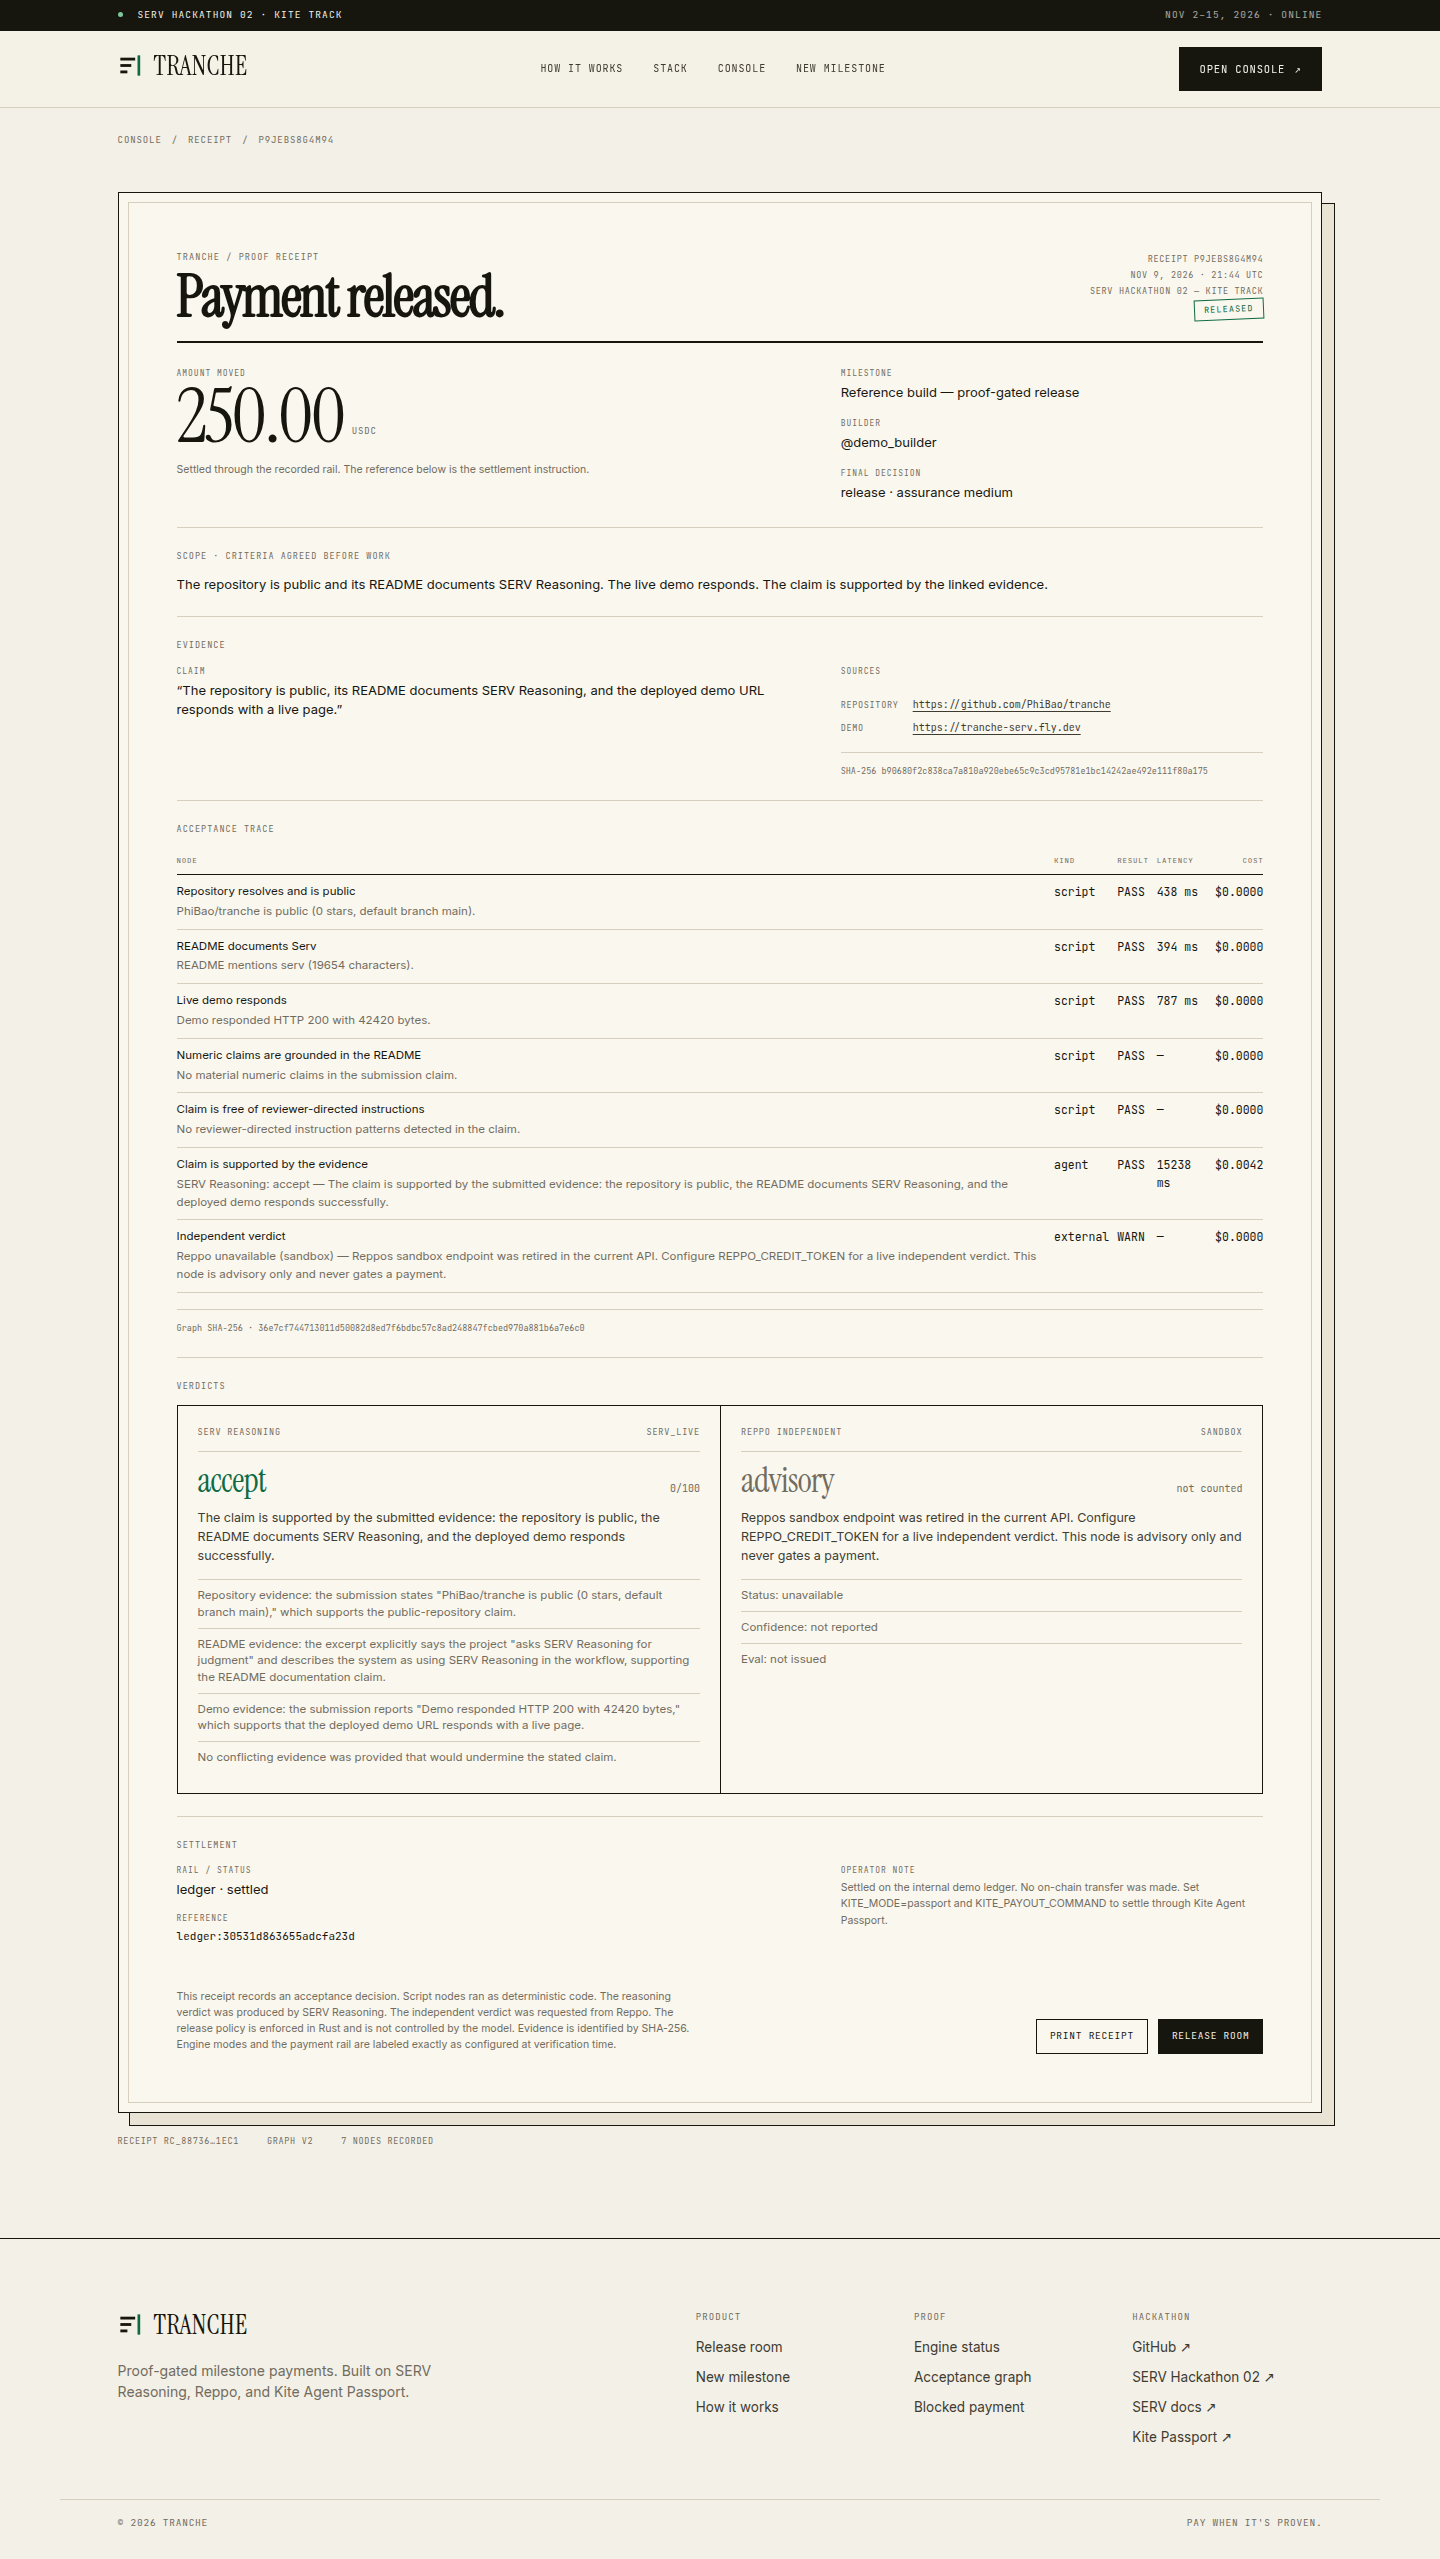
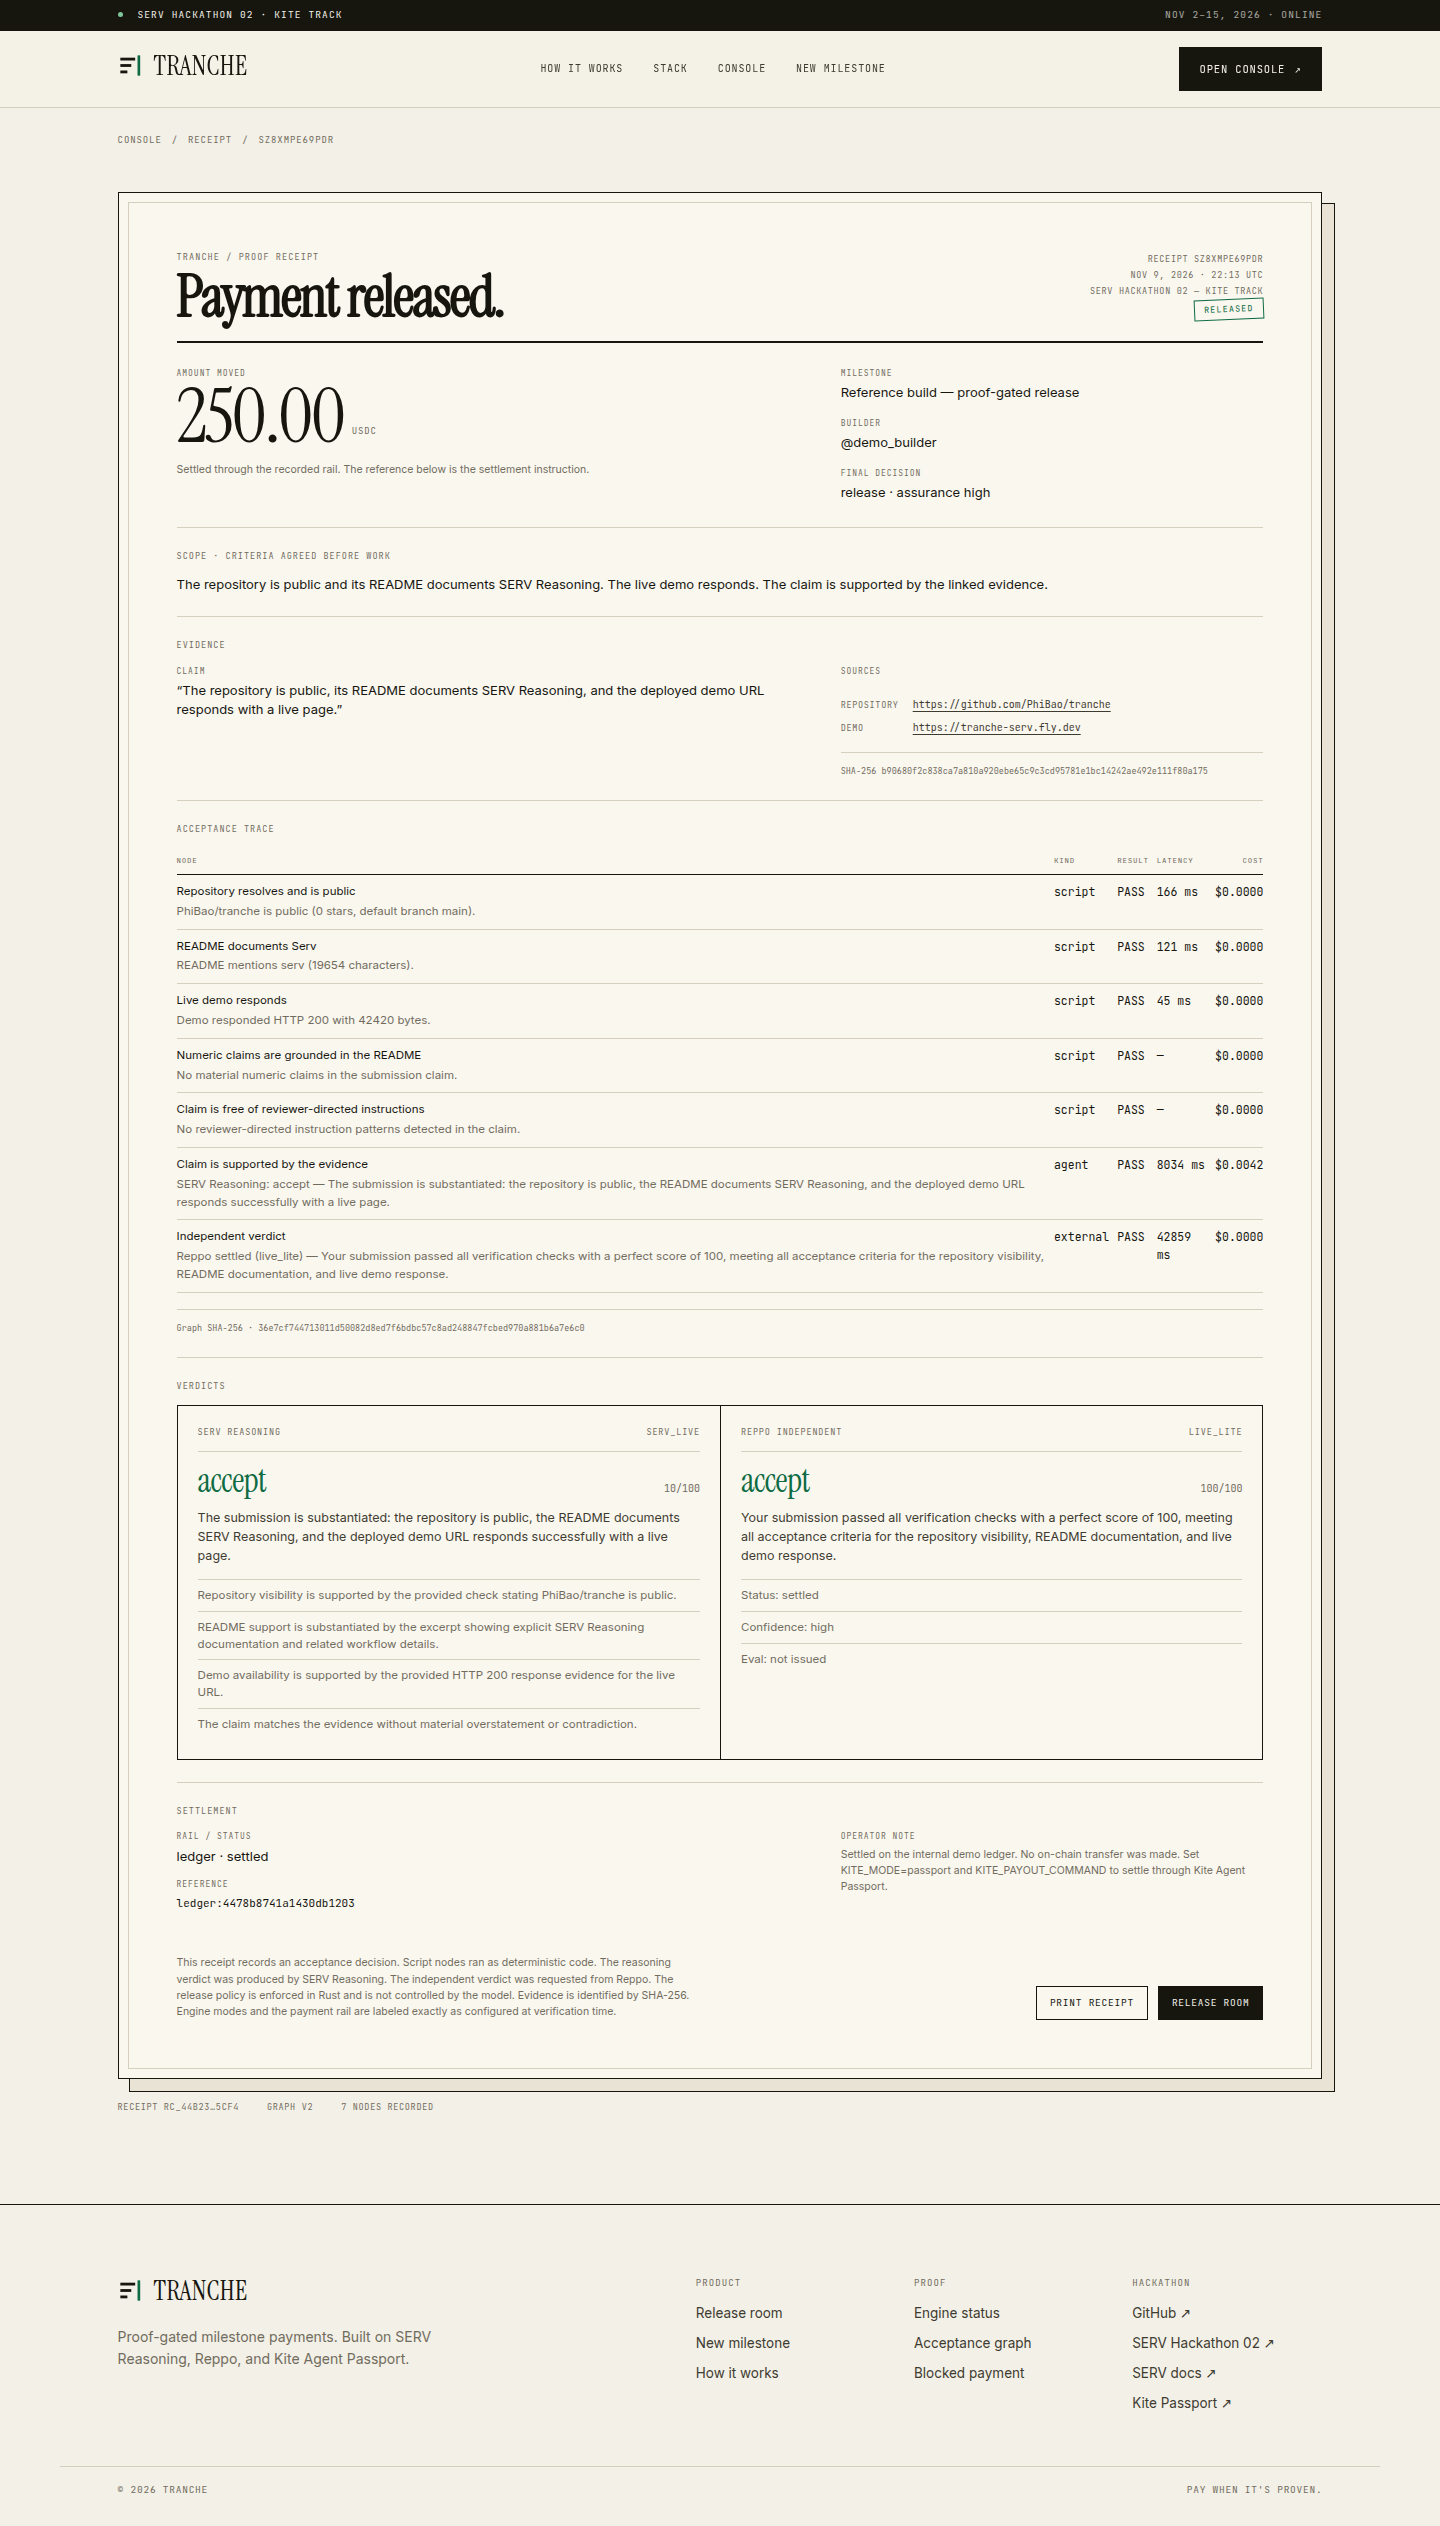
Live Reppo proofs, stricter assurance, Kite pending-approval docs

diff --git a/README.md b/README.md
@@ -12,8 +12,8 @@ Built for **SERV Hackathon 02** — Kite track. Deadline: November 15, 2026.
 - **Live demo:** <https://tranche-serv.fly.dev>
 - **Release room:** <https://tranche-serv.fly.dev/console/>
 - **Blocked-payment demo:** <https://tranche-serv.fly.dev/milestone/?id=ms_blocked>
-- **Live blocked receipt:** <https://tranche-serv.fly.dev/receipt/?slug=dfqn6yhkg2pe>
-- **Live released receipt:** <https://tranche-serv.fly.dev/receipt/?slug=72q7s2w6vwmr>
+- **Live blocked receipt:** <https://tranche-serv.fly.dev/receipt/?slug=afbq4eejfzhb>
+- **Live released receipt:** <https://tranche-serv.fly.dev/receipt/?slug=sz8xmpe69pdr>
 - **Repository:** this repository (public at submission time)
 
 The public demo scales to zero when idle. The first request can take 5–10 seconds
@@ -125,8 +125,8 @@ Open <https://tranche-serv.fly.dev/console/>. Four seeded milestones are availab
    failed safety check.
 
 Every page labels the engine mode and the payment rail. Nothing simulated is
-presented as live. The deployed demo runs SERV Reasoning **live**; Reppo is in
-**sandbox** mode (placeholder verdict, never gates); settlement is the labeled
+presented as live. The deployed demo runs SERV Reasoning **live** and Reppo
+**live** (x402 credits, independent verdict); settlement is the labeled
 **demo ledger**. The Kite Passport adapter is implemented but requires the
 operator's passkey and a funded wallet to settle for real.
 
@@ -143,7 +143,7 @@ operator's passkey and a funded wallet to settle for real.
 | Release policy | **Real** | Enforced in Rust; the model has no settlement authority |
 | Public receipt | **Real** | Generated from the persisted trace; excluded from any mocked path |
 | SERV Reasoning | **Live** when `SERV_API_KEY` is set | Calls `inference-api.openserv.ai` with PromptGuard + Shadow Agent. Without a key, a deterministic **fixture** evaluator runs and is labeled `FIXTURE`; fixture verdicts cannot release funds (`ALLOW_FIXTURE_RELEASE=false`). |
-| Reppo Evaluation API | **Live lite** when `REPPO_CREDIT_TOKEN` is set | Calls the x402 lite endpoint and settles inline. Without a token, `sandbox` returns a labeled placeholder. Without either, the node is `unconfigured`. |
+| Reppo Evaluation API | **Live lite** when `REPPO_CREDIT_TOKEN` is set | Submits the claim + evidence to `/api/v1/x402/evals`, polls for a settled verdict, and records score/decision/confidence/critique. Without a token, `sandbox` is a labeled advisory (no network call); without either, `unconfigured`. |
 | Settlement | **Kite Passport** when `KITE_MODE=passport` and `KITE_PAYOUT_COMMAND` is set | Runs the configured Passport payout command with the amount, recipient, and reference. Otherwise the **demo ledger** is used; it records a settlement reference but makes no on-chain transfer, and the UI says `demo ledger`. |
 | Seeded evidence | **Sample** | Public real URLs (`openserv-labs/sdk`, `openserv.ai/hackathon-2`), submitted as demo data; not a claim of authorship by the demo builder |
 
@@ -287,7 +287,7 @@ Edit `backend/.env`:
 
 ```dotenv
 SERV_API_KEY=...              # required for live judgment
-REPPO_CREDIT_TOKEN=...        # optional: live inline Reppo lite verdicts
+REPPO_CREDIT_TOKEN=...        # required for live independent verdicts (x402 prepaid credits)
 GITHUB_TOKEN=...              # optional: raises GitHub rate limits
 KITE_MODE=ledger              # demo ledger; use passport + a payout command for live
 ALLOW_FIXTURE_RELEASE=false   # keep false; a simulated verdict must not release funds
@@ -386,10 +386,9 @@ Restart the backend to reseed the four milestones.
 
 - **Kite Passport** has no public HTTP API yet; the integration is a CLI payout
   adapter. A native session-creation flow with passkey approval is the next step.
-- **Reppo lite** costs $0.05 per evaluation and needs a funded Base wallet. The
-  public demo shows a labeled sandbox or unconfigured node unless a credit token
-  is supplied. The standard API path settles in 10+ minutes and is not used for
-  the inline demo.
+- **Reppo lite** costs 440 credits per evaluation (about $0.22) and needs a
+  funded Base wallet. The public demo runs it live; the settlement window is
+  usually 30–90 seconds, so the payment is held if the verdict has not settled.
 - **SERV v3 Graph Sharding** is in beta. Tranche applies the script/decision/agent
   split at the application layer on the public v2 API; it does not claim to call
   a v3 graph endpoint.

diff --git a/docs/submission/demo-script.md b/docs/submission/demo-script.md
@@ -49,9 +49,9 @@ Go back → **Reference build — proof-gated release** → **Run seeded sample*
 
 Show the SERV panel, then the Reppo panel, then the payment stamp.
 
-> "SERV accepts. If Reppo is in live mode, its independent verdict also accepts.
-> The amount is at the operator's ceiling, so the policy releases it. In the
-> public demo Reppo is a labeled sandbox, and the UI says that too."
+> "SERV accepts. Reppo's independent verdict also accepts, with high confidence.
+> The amount is at the operator's ceiling and assurance is high, so the policy
+> releases it. Settlement is the labeled demo ledger in the public build."
 
 Click **Open public receipt**, show the graph hash, evidence hash, settlement
 reference.
@@ -85,7 +85,7 @@ Return to the console.
 - Pre-run the blocked and reference flows once so the database has receipts.
 - If SERV is slow, the page shows node status live; do not cut the wait, it is the
   product.
-- If Reppo is not configured, say so on camera and show the `sandbox` or
-  `not configured` label. Never imply a live independent verdict when there is
-  none.
+- If Reppo is still queued, use the `Refresh verdict` button on the milestone page.
+  If the credit balance is exhausted, say so on camera; never imply a live
+  verdict when the UI says otherwise.
 - If the demo ledger is used, say "demo ledger" on camera. Do not call it Kite.

diff --git a/docs/submission/writeup.md b/docs/submission/writeup.md
@@ -3,8 +3,8 @@
 **Track:** Kite
 **One line:** Proof-gated milestone payments. Pay when it's proven.
 **Live demo:** https://tranche-serv.fly.dev
-**Released receipt:** https://tranche-serv.fly.dev/receipt/?slug=72q7s2w6vwmr
-**Blocked receipt:** https://tranche-serv.fly.dev/receipt/?slug=dfqn6yhkg2pe
+**Released receipt:** https://tranche-serv.fly.dev/receipt/?slug=sz8xmpe69pdr
+**Blocked receipt:** https://tranche-serv.fly.dev/receipt/?slug=afbq4eejfzhb
 **Repository:** https://github.com/PhiBao/tranche
 **Demo video:** _to be recorded_
 
@@ -56,8 +56,7 @@ approve, and a blocked payment can never be approved.
 The public demo runs a **labeled demo ledger** because live Passport settlement
 requires the operator's passkey and a funded USDC.e wallet. The UI never calls the
 ledger "Kite"; the adapter is `scripts/kite_payout.sh` and the setup is documented
-in the README. The deployed demo runs SERV Reasoning live and Reppo in labeled
-sandbox mode.
+in the README. The deployed demo runs both SERV Reasoning and the Reppo Evaluation API live.
 
 ## What was built during the hackathon
 

diff --git a/docs/submission/checklist.md b/docs/submission/checklist.md
@@ -7,7 +7,7 @@ Deadline: **2026-11-15 23:59 UTC**.
 - [x] Public repository: https://github.com/PhiBao/tranche
 - [x] Live demo: https://tranche-serv.fly.dev
 - [x] Live SERV Reasoning (`serv` in `/api/health` reports `live`)
-- [x] Reppo sandbox labeled (live lite requires a credit token)
+- [x] Reppo live lite verdicts (credit token funded and set as a Fly secret)
 - [x] Labeled demo ledger (Kite Passport adapter ready; live settlement requires
       the operator's passkey and a funded wallet)
 - [x] Four seeded milestones: release, blocked, over-ceiling, injection
@@ -51,7 +51,7 @@ Deadline: **2026-11-15 23:59 UTC**.
 
 ## Known limitations to disclose
 
-- Reppo is in sandbox mode on the public demo (placeholder verdict, never gates).
+- Reppo live verdicts consume prepaid credits; if the balance runs out the UI labels the node and holds the payment.
 - Settlement is the labeled demo ledger, not a live Kite transfer.
 - No user accounts or per-IP rate limiting on the public demo.
 - Evidence is public URLs and text; no builder signatures or private repos.

diff --git a/docs/submission/x-post.md b/docs/submission/x-post.md
@@ -7,10 +7,11 @@
 > I built **Tranche** for the @openservai SERV Hackathon 02 — Kite track.
 >
 > A milestone rubric becomes an executable acceptance graph. Evidence is checked
-> in code, judged by SERV Reasoning, and wired for an independent @reppo
+> in code, judged by SERV Reasoning, and checked by an independent @reppo
 > verdict. Only then does the Kite Passport adapter release the tranche.
 >
-> A padded claim, a 404 demo, or an injection attempt gets a receipt too:
+> SERV and Reppo both rejected the padded claim and the injection attempt.
+> Both got a receipt:
 > **0.00 USDC moved.**
 >
 > Live: https://tranche-serv.fly.dev
